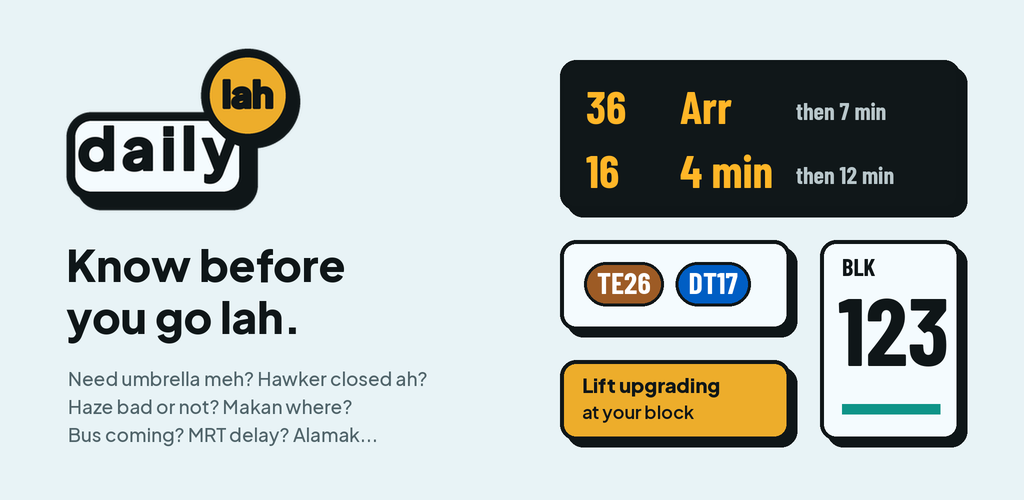
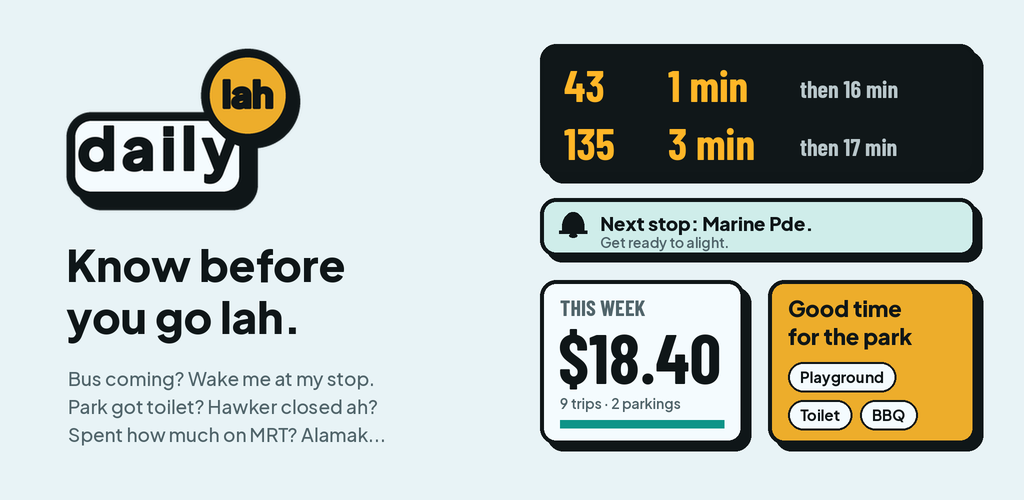
Refresh the Play Store feature graphic (#58)
Variant A: live bus board, Wake me at my stop, this week's spend from History and park
facilities, in the app's sticker style. Built by scripts/make_feature_graphic.py; the
512 px icon is unchanged.

Claude-Session: https://claude.ai/code/session_01StfDZDu8aeBj44HoMWzgBi

Changed region(s): [[0.5, 0.09, 0.9688, 0.93], [0.0625, 0.75, 0.4062, 0.9], [0.7812, 0.15, 0.875, 0.24]]

diff --git a/scripts/make_feature_graphic.py b/scripts/make_feature_graphic.py
@@ -53,7 +53,28 @@ def text(d, xy, s, font, fill):
     d.text((xy[0] * S, xy[1] * S), s, font=font, fill=fill)
 
 
+MINT = (207, 237, 234)
+GREY = (80, 100, 106)
+
+
+def chip(d, x, y, label):
+    f = jak(15, 700)
+    w = d.textlength(label, font=f) / S + 24
+    d.rounded_rectangle([x * S, y * S, (x + w) * S, (y + 30) * S], 15 * S, fill=CARD, outline=INK, width=2 * S)
+    text(d, (x + 12, y + 5), label, f, INK)
+    return x + w + 8
+
+
+def bell(d, x, y, s=22):
+    X = lambda v: v * S  # noqa: E731
+    d.pieslice([X(x), X(y), X(x + s), X(y + s * 1.3)], 180, 360, fill=INK)
+    d.rectangle([X(x), X(y + s * 0.62), X(x + s), X(y + s * 0.9)], fill=INK)
+    d.rectangle([X(x - 3), X(y + s * 0.86), X(x + s + 3), X(y + s * 0.98)], fill=INK)
+    d.ellipse([X(x + s / 2 - 4), X(y + s * 0.98), X(x + s / 2 + 4), X(y + s * 1.16)], fill=INK)
+
+
 def feature():
+    """Feature graphic (Oct 2026): live buses, Wake me, History spend and park facilities."""
     W, H = 1024, 500
     im = Image.new("RGB", (W * S, H * S), PAPER)
     d = ImageDraw.Draw(im)
@@ -66,42 +87,43 @@ def feature():
     text(d, (66, 236), "Know before", jak(44), INK)
     text(d, (66, 288), "you go lah.", jak(44), INK)
     for i, line in enumerate(
-        ["Need umbrella meh? Hawker closed ah?", "Haze bad or not? Makan where?", "Bus coming? MRT delay? Alamak..."]
+        [
+            "Bus coming? Wake me at my stop.",
+            "Park got toilet? Hawker closed ah?",
+            "Spent how much on MRT? Alamak...",
+        ]
     ):
-        text(d, (68, 366 + i * 28), line, jak(19, 500), (80, 100, 106))
+        text(d, (68, 366 + i * 28), line, jak(19, 500), GREY)
 
-    # Right: three stickers with the app's signatures.
+    # Right: the app's stickers.
     # 1. Bus stop LED board.
-    sticker(d, (560, 60, 960, 210), BOARD, radius=16)
-    rows = [("36", "Arr", "then 7 min"), ("16", "4 min", "then 12 min")]
-    for i, (svc, eta, nxt) in enumerate(rows):
-        y = 78 + i * 64
-        text(d, (586, y), svc, bar(46), LED)
-        text(d, (680, y), eta, bar(46), LED)
-        text(d, (796, y + 18), nxt, bar(24), LED_DIM)  # one column for every row
+    sticker(d, (540, 44, 976, 176), BOARD, radius=16)
+    for i, (svc, eta, nxt) in enumerate([("43", "1 min", "then 16 min"), ("135", "3 min", "then 17 min")]):
+        y = 58 + i * 58
+        text(d, (564, y), svc, bar(44), LED)
+        text(d, (668, y), eta, bar(44), LED)
+        text(d, (800, y + 16), nxt, bar(24), LED_DIM)
 
-    # 2. MRT station chips.
-    sticker(d, (560, 240, 790, 330), CARD, radius=16)
-    x = 584
-    for code in ("TE26", "DT17"):
-        f = bar(30)
-        w = d.textlength(code, font=f) / S + 26
-        col = LINES[code[:2]]
-        d.rounded_rectangle([x * S, 262 * S, (x + w) * S, 306 * S], 22 * S, fill=col, outline=INK, width=3 * S)
-        text(d, (x + 13, 264), code, f, (255, 255, 255))
-        x += w + 12
+    # 2. Wake me at my stop.
+    sticker(d, (540, 198, 976, 256), MINT, radius=16, shadow=6)
+    bell(d, 562, 212)
+    text(d, (600, 211), "Next stop: Marine Pde.", jak(19), INK)
+    text(d, (600, 233), "Get ready to alight.", jak(14, 600), GREY)
 
-    # 3. Painted block number.
-    # A made-up block number, not anyone's real home.
-    sticker(d, (820, 240, 960, 440), CARD, radius=16)
-    text(d, (842, 252), "BLK", bar(24), INK)
-    text(d, (838, 270), "123", bar(96), INK)
-    d.rectangle([842 * S, 404 * S, 940 * S, 414 * S], fill=TEAL)
+    # 3. History: spend this week (made-up numbers).
+    sticker(d, (540, 280, 744, 444), CARD, radius=16)
+    text(d, (560, 294), "THIS WEEK", bar(22), GREY)
+    text(d, (558, 314), "$18.40", bar(70), INK)
+    text(d, (560, 394), "9 trips · 2 parkings", jak(14, 600), GREY)
+    d.rectangle([560 * S, 420 * S, 724 * S, 428 * S], fill=TEAL)
 
-    # 4. Something the lines on the left do not already say: upgrading at your block.
-    sticker(d, (560, 360, 790, 440), AMBER, radius=16)
-    text(d, (582, 372), "Lift upgrading", jak(20), INK)
-    text(d, (582, 400), "at your block", jak(18, 600), INK)
+    # 4. Parks: good time to go, with facility chips.
+    sticker(d, (768, 280, 976, 444), AMBER, radius=16)
+    text(d, (788, 294), "Good time", jak(22), INK)
+    text(d, (788, 322), "for the park", jak(22), INK)
+    chip(d, 788, 362, "Playground")
+    x = chip(d, 788, 400, "Toilet")
+    chip(d, x, 400, "BBQ")
 
     return im.resize((W, H), Image.LANCZOS)
 
